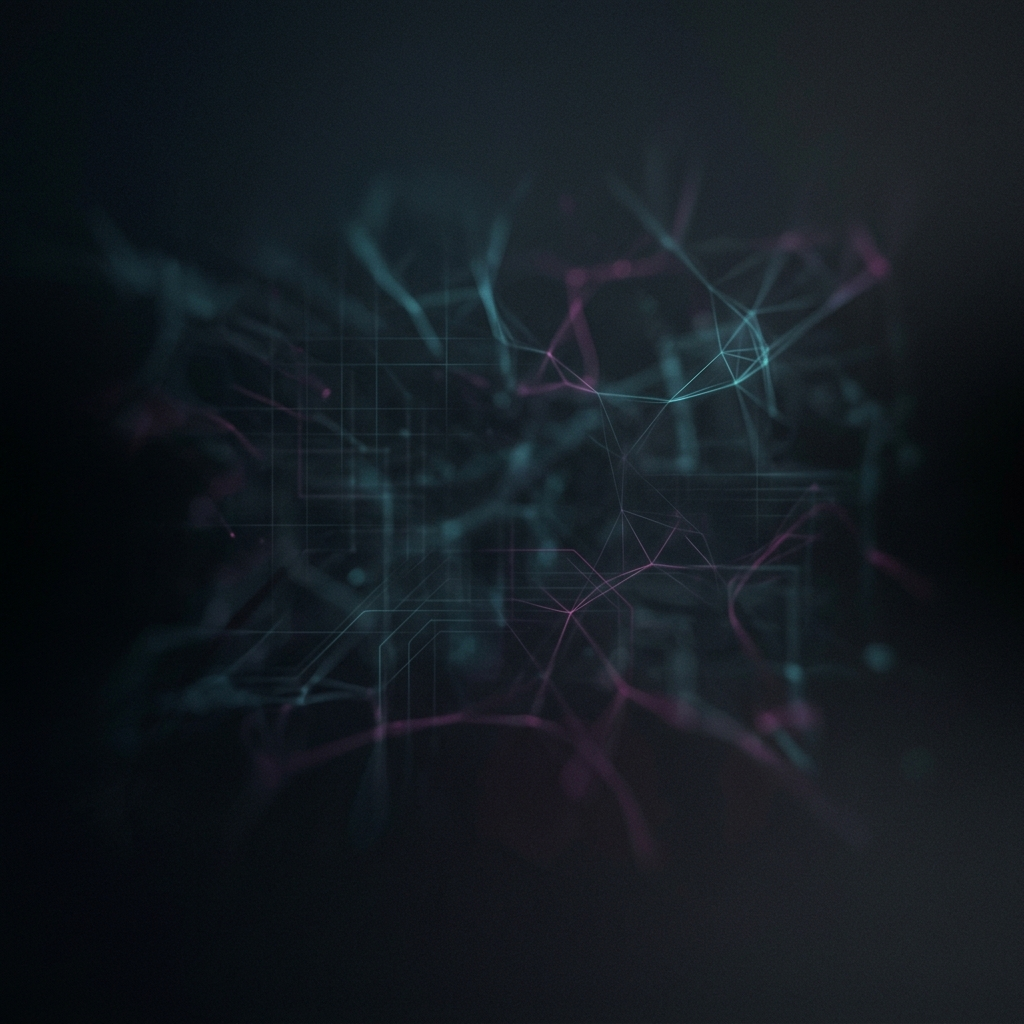
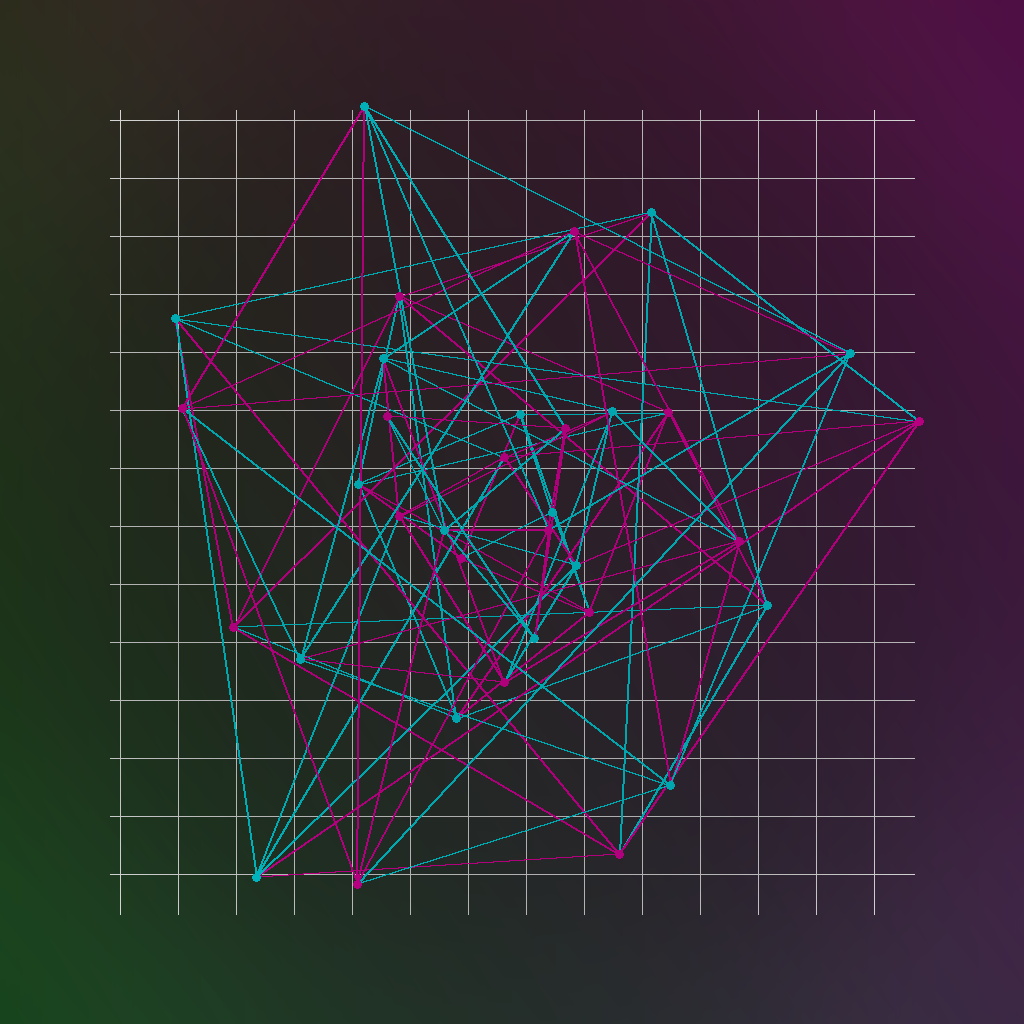
Remove remaining Unify branding references

diff --git a/assets/js/about.js b/assets/js/about.js
@@ -23,7 +23,7 @@ document.addEventListener('DOMContentLoaded', () => {
     // Custom canvas graphics nodes for simulation
     const connectionNodes = [
         { x: 200, y: 150, radius: 8, color: '#00f3ff', label: 'Local Upload' },
-        { x: 450, y: 150, radius: 12, color: '#ff00ff', label: 'Unify Core' },
+        { x: 450, y: 150, radius: 12, color: '#ff00ff', label: 'MediaFusion Core' },
         { x: 700, y: 80, radius: 8, color: '#ff0000', label: 'YouTube API' },
         { x: 700, y: 150, radius: 8, color: '#00f3ff', label: 'TikTok SDK' },
         { x: 700, y: 220, radius: 8, color: '#1877f2', label: 'Meta Graph' }

diff --git a/assets/css/style.css b/assets/css/style.css
@@ -350,7 +350,7 @@ input:checked ~ .platform-icon.meta { color: var(--meta-blue); text-shadow: 0 0 
   margin: 0 auto;
 }
 
-.center-hub {
+.center-core {
   position: absolute;
   top: 50%;
   left: 50%;
@@ -474,7 +474,7 @@ video {
     margin-top: 3rem;
   }
   .orbit-icon.yt { left: 120px; }
-  .center-hub {
+  .center-core {
     width: 80px;
     height: 80px;
     font-size: 2rem;
@@ -1145,5 +1145,4 @@ footer::before {
 .img-editor-canvas-wrap:hover {
     border-color: rgba(0, 243, 255, 0.38) !important;
 }
-
 

diff --git a/config.php b/config.php
@@ -16,7 +16,7 @@ declare(strict_types=1);
  * - Optional file: /opt/lampp/htdocs/mediafusion/.env
  * - Never prints secrets; only sets process env via putenv().
  */
-function unify_load_env_file(string $path): void {
+function mediafusion_load_env_file(string $path): void {
     if (!is_file($path) || !is_readable($path)) {
         return;
     }
@@ -41,9 +41,9 @@ function unify_load_env_file(string $path): void {
 }
 
 // Instantiate environment loader
-unify_load_env_file(__DIR__ . '/.env');
+mediafusion_load_env_file(__DIR__ . '/.env');
 
-function unify_is_https(): bool {
+function mediafusion_is_https(): bool {
     if (!empty($_SERVER['HTTP_X_FORWARDED_PROTO'])) {
         return strtolower((string)$_SERVER['HTTP_X_FORWARDED_PROTO']) === 'https';
     }
@@ -53,9 +53,9 @@ function unify_is_https(): bool {
     return (isset($_SERVER['SERVER_PORT']) && (int)$_SERVER['SERVER_PORT'] === 443);
 }
 
-function unify_detect_redirect_uri(): string {
+function mediafusion_detect_redirect_uri(): string {
     // If explicitly configured, use exact string (console must match exactly).
-    $forced = getenv('UNIFY_OAUTH_REDIRECT_URI') ?: getenv('TIKTOK_REDIRECT_URI');
+    $forced = getenv('MEDIAFUSION_OAUTH_REDIRECT_URI') ?: getenv('TIKTOK_REDIRECT_URI');
     if (is_string($forced) && $forced !== '') {
         return $forced;
     }
@@ -63,7 +63,7 @@ function unify_detect_redirect_uri(): string {
     if (!isset($_SERVER['HTTP_HOST'], $_SERVER['SCRIPT_NAME'])) {
         return 'http://localhost/mediafusion/connect.php';
     }
-    $scheme = unify_is_https() ? 'https' : 'http';
+    $scheme = mediafusion_is_https() ? 'https' : 'http';
     $host = (string)$_SERVER['HTTP_HOST'];
     $basePath = rtrim(str_replace('\\', '/', dirname((string)$_SERVER['SCRIPT_NAME'])), '/');
     $path = $basePath === '' ? '/connect.php' : $basePath . '/connect.php';
@@ -74,11 +74,11 @@ function unify_detect_redirect_uri(): string {
  * Detect absolute URL for an arbitrary script in the app (e.g. callback.php)
  * Falls back to localhost path when server variables are not available.
  */
-function unify_detect_script_uri(string $script = 'callback.php'): string {
+function mediafusion_detect_script_uri(string $script = 'callback.php'): string {
     if (!isset($_SERVER['HTTP_HOST'], $_SERVER['SCRIPT_NAME'])) {
         return 'http://localhost/mediafusion/' . ltrim($script, '/');
     }
-    $scheme = unify_is_https() ? 'https' : 'http';
+    $scheme = mediafusion_is_https() ? 'https' : 'http';
     $host = (string)$_SERVER['HTTP_HOST'];
     $basePath = rtrim(str_replace('\\', '/', dirname((string)$_SERVER['SCRIPT_NAME'])), '/');
     $path = $basePath === '' ? '/' . ltrim($script, '/') : $basePath . '/' . ltrim($script, '/');
@@ -88,19 +88,19 @@ function unify_detect_script_uri(string $script = 'callback.php'): string {
 // ---- Production overrides: when running on the live domain, prefer explicit production credentials
 $productionHost = 'fusionmedia.top';
 $hostLower = strtolower($_SERVER['HTTP_HOST'] ?? '');
-if (strpos($hostLower, $productionHost) !== false || getenv('UNIFY_FORCE_PRODUCTION') === '1') {
+if (strpos($hostLower, $productionHost) !== false || getenv('MEDIAFUSION_FORCE_PRODUCTION') === '1') {
     // Only set these if they are not already provided by environment (.env or server)
     if (strpos($hostLower, $productionHost) !== false || getenv('RAILWAY_ENVIRONMENT') !== false) {
     
     $prodBase = 'https://' . $productionHost;
-    if (getenv('UNIFY_OAUTH_REDIRECT_URI') === false) putenv('UNIFY_OAUTH_REDIRECT_URI=' . $prodBase . '/callback.php');
+    if (getenv('MEDIAFUSION_OAUTH_REDIRECT_URI') === false) putenv('MEDIAFUSION_OAUTH_REDIRECT_URI=' . $prodBase . '/callback.php');
     if (getenv('TIKTOK_REDIRECT_URI') === false) putenv('TIKTOK_REDIRECT_URI=' . $prodBase . '/callback.php');
     if (getenv('META_REDIRECT_URI') === false) putenv('META_REDIRECT_URI=' . $prodBase . '/callback_meta.php');
     
-}('DB_NAME=if0_42025520_UnifySocialHub');
+}('DB_NAME=if0_42025520_mediafusion');
 
     $prodBase = 'https://' . $productionHost;
-    if (getenv('UNIFY_OAUTH_REDIRECT_URI') === false) putenv('UNIFY_OAUTH_REDIRECT_URI=' . $prodBase . '/callback.php');
+    if (getenv('MEDIAFUSION_OAUTH_REDIRECT_URI') === false) putenv('MEDIAFUSION_OAUTH_REDIRECT_URI=' . $prodBase . '/callback.php');
     if (getenv('TIKTOK_REDIRECT_URI') === false) putenv('TIKTOK_REDIRECT_URI=' . $prodBase . '/callback.php');
     if (getenv('META_REDIRECT_URI') === false) putenv('META_REDIRECT_URI=' . $prodBase . '/callback_meta.php');
 }
@@ -112,10 +112,10 @@ define('DB_USER', getenv('DB_USER') ?: getenv('MYSQLUSER') ?: 'root');
 define('DB_PASS', getenv('DB_PASS') !== false ? getenv('DB_PASS') : (getenv('MYSQLPASSWORD') !== false ? getenv('MYSQLPASSWORD') : ''));
 define('DB_NAME', getenv('DB_NAME') ?: getenv('MYSQLDATABASE') ?: 'railway');
 // 2. Dynamic Meta / Instagram API Credentials
-define('FB_APP_ID', getenv('FB_APP_ID') ?: getenv('UNIFY_FB_APP_ID') ?: '');
-define('FB_APP_SECRET', getenv('FB_APP_SECRET') ?: getenv('UNIFY_FB_APP_SECRET') ?: '');
-define('IG_APP_ID', getenv('IG_APP_ID') ?: getenv('UNIFY_IG_APP_ID') ?: '');
-define('IG_APP_SECRET', getenv('IG_APP_SECRET') ?: getenv('UNIFY_IG_APP_SECRET') ?: '');
+define('FB_APP_ID', getenv('FB_APP_ID') ?: getenv('MEDIAFUSION_FB_APP_ID') ?: '');
+define('FB_APP_SECRET', getenv('FB_APP_SECRET') ?: getenv('MEDIAFUSION_FB_APP_SECRET') ?: '');
+define('IG_APP_ID', getenv('IG_APP_ID') ?: getenv('MEDIAFUSION_IG_APP_ID') ?: '');
+define('IG_APP_SECRET', getenv('IG_APP_SECRET') ?: getenv('MEDIAFUSION_IG_APP_SECRET') ?: '');
 
 // 3. Dynamic Google / YouTube API Credentials
 define('YOUTUBE_CLIENT_ID', getenv('YOUTUBE_CLIENT_ID') ?: '903707729051-g7dlb4g53b907mv4mpbok22tao5rmmml.apps.googleusercontent.com');
@@ -123,18 +123,18 @@ define('YOUTUBE_CLIENT_SECRET', getenv('YOUTUBE_CLIENT_SECRET') ?: 'GOCSPX-MSOep
 
 // 4. Dynamic TikTok API Sandbox Credentials
 // REDIRECT_URI is used as the OAuth callback for Google/TikTok flows. Default to the detected callback URL.
-define('REDIRECT_URI', getenv('TIKTOK_REDIRECT_URI') ?: unify_detect_script_uri('callback.php'));
+define('REDIRECT_URI', getenv('TIKTOK_REDIRECT_URI') ?: mediafusion_detect_script_uri('callback.php'));
 define('TIKTOK_CLIENT_KEY', getenv('TIKTOK_CLIENT_KEY') ?: 'sbaww7xjk9qim5act5');
 define('TIKTOK_CLIENT_SECRET', getenv('TIKTOK_CLIENT_SECRET') ?: 'IMzS614FNuWf9e9jNflA1lQLpNVVv2fj');
 
 // 5. Instagram Access Token
-define('IG_TEMP_TOKEN', getenv('UNIFY_IG_TEMP_TOKEN') ?: '');
+define('IG_TEMP_TOKEN', getenv('MEDIAFUSION_IG_TEMP_TOKEN') ?: '');
 
-// 6. Dynamic Meta API Integration Keys (Unified FB & IG)
+// 6. Dynamic Meta API Integration Keys (Meta FB & IG)
 define('META_APP_ID', getenv('META_APP_ID') ?: '950500347761069'); 
 define('META_APP_SECRET', getenv('META_APP_SECRET') ?: 'f64ae46693cbaecf191eb0a31417df5e');
 define('META_CONFIG_ID', getenv('META_CONFIG_ID') ?: '1731252727876526');
-define('META_REDIRECT_URI', getenv('META_REDIRECT_URI') ?: unify_detect_script_uri('callback_meta.php'));
+define('META_REDIRECT_URI', getenv('META_REDIRECT_URI') ?: mediafusion_detect_script_uri('callback_meta.php'));
 define('META_GRAPH_VERSION', getenv('META_GRAPH_VERSION') ?: 'v25.0');
 
 // 7. Dynamic SMTP Transactional Settings

diff --git a/includes/footer.php b/includes/footer.php
@@ -14,17 +14,17 @@ declare(strict_types=1);
             <!-- Column 1: Brand & Identity with Social Buttons -->
             <div class="col-lg-3 col-md-6 mb-4 mb-lg-0">
                 <a class="d-flex align-items-center mb-4 text-white text-decoration-none fw-bold" href="index.php" style="font-family: var(--font-heading); font-size: 1.2rem; letter-spacing: 1px;">
-                    <img src="assets/img/logo.png" alt="Unify Logo" class="brand-logo me-2" style="height: 30px;">
-                    <span style="text-shadow: 0 0 10px rgba(0, 243, 255, 0.4); font-weight: 800;">UNIFY</span>
+                    <img src="assets/img/logo.png" alt="MediaFusion Logo" class="brand-logo me-2" style="height: 30px;">
+                    <span style="text-shadow: 0 0 10px rgba(0, 243, 255, 0.4); font-weight: 800;">MediaFusion</span>
                 </a>
                 <p class="small text-secondary mb-4" style="line-height: 1.8; opacity: 0.9;">
                     Powerful workspace for creators to distribute content and scale across multi-platform networks.
                 </p>
                 <div class="d-flex gap-2" style="margin-top: 20px;">
-                    <a href="https://www.youtube.com/@UnifySocialMedia" target="_blank" class="social-glow-btn social-yt" title="YouTube"><i class="fa-brands fa-youtube"></i></a>
-                    <a href="https://www.tiktok.com/@unifysocialhub" target="_blank" class="social-glow-btn social-tt" title="TikTok"><i class="fa-brands fa-tiktok"></i></a>
+                    <a href="https://www.youtube.com/@MediaFusion" target="_blank" class="social-glow-btn social-yt" title="YouTube"><i class="fa-brands fa-youtube"></i></a>
+                    <a href="https://www.tiktok.com/@mediafusion" target="_blank" class="social-glow-btn social-tt" title="TikTok"><i class="fa-brands fa-tiktok"></i></a>
                     <a href="https://web.facebook.com/profile.php?id=61589997259788" target="_blank" class="social-glow-btn social-fb" title="Facebook"><i class="fa-brands fa-facebook-f"></i></a>
-                    <a href="https://www.instagram.com/unifysocialhub" target="_blank" class="social-glow-btn social-ig" title="Instagram"><i class="fa-brands fa-instagram"></i></a>
+                    <a href="https://www.instagram.com/mediafusion" target="_blank" class="social-glow-btn social-ig" title="Instagram"><i class="fa-brands fa-instagram"></i></a>
                 </div>
             </div>
 
@@ -91,7 +91,7 @@ declare(strict_types=1);
         <div class="row">
             <div class="col-12">
                 <p class="small text-secondary mb-0 text-center" style="font-size: 0.8rem; letter-spacing: 0.5px;">
-                    &copy; <?= date('Y') ?> Unify Studios. All Rights Reserved.
+                    &copy; <?= date('Y') ?> MediaFusion. All Rights Reserved.
                 </p>
             </div>
         </div>

diff --git a/backend/engine/distributor.py b/backend/engine/distributor.py
@@ -1,6 +1,6 @@
 #!/usr/bin/env python3
 """
-Unify Studios Distribution Engine
+MediaFusion Distribution Engine
 --------------------------------
 backend/engine/distributor.py
 
@@ -21,7 +21,7 @@ Dependencies (install via pip):
     - requests
 
 Environment variables:
-    - UNIFY_DB_HOST, UNIFY_DB_USER, UNIFY_DB_PASS, UNIFY_DB_NAME
+    - MEDIAFUSION_DB_HOST, MEDIAFUSION_DB_USER, MEDIAFUSION_DB_PASS, MEDIAFUSION_DB_NAME
 """
 
 from __future__ import annotations
@@ -70,11 +70,11 @@ class UploadJob:
 
 
 def db_connect():
-    host = os.getenv("UNIFY_DB_HOST") or os.getenv("DB_HOST") or os.getenv("MYSQLHOST") or "localhost"
-    port = os.getenv("UNIFY_DB_PORT") or os.getenv("DB_PORT") or os.getenv("MYSQLPORT") or "3306"
-    user = os.getenv("UNIFY_DB_USER") or os.getenv("DB_USER") or os.getenv("MYSQLUSER") or "root"
-    password = os.getenv("UNIFY_DB_PASS") or os.getenv("DB_PASS") or os.getenv("MYSQLPASSWORD") or ""
-    database = os.getenv("UNIFY_DB_NAME") or os.getenv("DB_NAME") or os.getenv("MYSQLDATABASE") or "unify_social_hub"
+    host = os.getenv("MEDIAFUSION_DB_HOST") or os.getenv("DB_HOST") or os.getenv("MYSQLHOST") or "localhost"
+    port = os.getenv("MEDIAFUSION_DB_PORT") or os.getenv("DB_PORT") or os.getenv("MYSQLPORT") or "3306"
+    user = os.getenv("MEDIAFUSION_DB_USER") or os.getenv("DB_USER") or os.getenv("MYSQLUSER") or "root"
+    password = os.getenv("MEDIAFUSION_DB_PASS") or os.getenv("DB_PASS") or os.getenv("MYSQLPASSWORD") or ""
+    database = os.getenv("MEDIAFUSION_DB_NAME") or os.getenv("DB_NAME") or os.getenv("MYSQLDATABASE") or "mediafusion"
     
     return mysql.connector.connect(
         host=host,

diff --git a/index.php b/index.php
@@ -21,7 +21,7 @@ $extraHead  = '
                             <span class="text-gradient-cyan">Light Speed.</span>
                         </h1>
                         <p class="lead text-secondary mb-5 gsap-fade-in" data-scroll data-scroll-speed="1.2">
-                            A high-performance engine to broadcast your videos across YouTube, TikTok, and Meta simultaneously. Unify your social presence with a single click.
+                            A high-performance engine to broadcast your videos across YouTube, TikTok, and Meta simultaneously. Fuse your media presence with a single click.
                         </p>
                         <div class="d-flex gap-4 gsap-fade-in" data-scroll data-scroll-speed="1.4">
                             <a href="connect.php" class="btn-magnetic" style="border-color: var(--neon-magenta); color: #fff;">
@@ -33,7 +33,7 @@ $extraHead  = '
                     <div class="col-lg-6 position-relative z-1 gsap-fade-in">
                         <!-- Floating Orbit GSAP Animation -->
                         <div class="orbit-container" data-scroll data-scroll-speed="-1">
-                            <div class="center-hub">
+                            <div class="center-core">
                                 <i class="fa-solid fa-satellite-dish text-gradient-cyan"></i>
                             </div>
                             <div class="orbit-ring">

diff --git a/backend/python/uploader.py b/backend/python/uploader.py
@@ -13,11 +13,11 @@ logging.basicConfig(level=logging.INFO, format='%(asctime)s - %(levelname)s - %(
 
 def get_db_connection():
     try:
-        host = os.getenv("UNIFY_DB_HOST") or os.getenv("DB_HOST") or os.getenv("MYSQLHOST") or "127.0.0.1"
-        port = os.getenv("UNIFY_DB_PORT") or os.getenv("DB_PORT") or os.getenv("MYSQLPORT") or "3306"
-        user = os.getenv("UNIFY_DB_USER") or os.getenv("DB_USER") or os.getenv("MYSQLUSER") or "root"
-        password = os.getenv("UNIFY_DB_PASS") or os.getenv("DB_PASS") or os.getenv("MYSQLPASSWORD") or ""
-        database = os.getenv("UNIFY_DB_NAME") or os.getenv("DB_NAME") or os.getenv("MYSQLDATABASE") or "unify_social_hub"
+        host = os.getenv("MEDIAFUSION_DB_HOST") or os.getenv("DB_HOST") or os.getenv("MYSQLHOST") or "127.0.0.1"
+        port = os.getenv("MEDIAFUSION_DB_PORT") or os.getenv("DB_PORT") or os.getenv("MYSQLPORT") or "3306"
+        user = os.getenv("MEDIAFUSION_DB_USER") or os.getenv("DB_USER") or os.getenv("MYSQLUSER") or "root"
+        password = os.getenv("MEDIAFUSION_DB_PASS") or os.getenv("DB_PASS") or os.getenv("MYSQLPASSWORD") or ""
+        database = os.getenv("MEDIAFUSION_DB_NAME") or os.getenv("DB_NAME") or os.getenv("MYSQLDATABASE") or "mediafusion"
         
         return mysql.connector.connect(
             host=host,

diff --git a/auth.php b/auth.php
@@ -22,7 +22,7 @@ if (isset($_SESSION['user_id'])) {
     <nav class="navbar navbar-expand-lg navbar-glass">
         <div class="container-fluid">
             <a class="navbar-brand" href="index.php">
-                <img src="assets/img/logo.png" alt="Unify Logo" class="brand-logo"> Unify
+            <img src="assets/img/logo.png" alt="MediaFusion Logo" class="brand-logo"> MediaFusion
             </a>
             <div class="collapse navbar-collapse justify-content-end">
                 <ul class="navbar-nav align-items-center gap-3">
@@ -35,7 +35,7 @@ if (isset($_SESSION['user_id'])) {
     <div class="auth-container">
         <div class="glass-card auth-card">
             <div class="text-center mb-4">
-                <img src="assets/img/logo.png" alt="Unify Logo" style="height: 60px; filter: drop-shadow(0 0 10px var(--neon-cyan));" class="mb-3">
+                <img src="assets/img/logo.png" alt="MediaFusion Logo" style="height: 60px; filter: drop-shadow(0 0 10px var(--neon-cyan));" class="mb-3">
                 <h2 id="authTitle" class="text-gradient-cyan">System Login</h2>
                 <p id="authSubtitle" class="text-secondary">Authenticate to access the distribution engine.</p>
             </div>

diff --git a/request_password_reset.php b/request_password_reset.php
@@ -160,7 +160,7 @@ class CyberpunkSMTPClient {
             "From: \"" . $fromName . "\" <" . $this->username . ">",
             "Subject: =?UTF-8?B?" . base64_encode($subject) . "?=",
             "Date: " . date('r'),
-            "X-Mailer: Unify OO Sockets Client v1.0"
+            "X-Mailer: MediaFusion SMTP Client v1.0"
         ];
 
         $rawMessage = implode("\r\n", $headers) . "\r\n\r\n" . $body . "\r\n.\r\n";
@@ -247,7 +247,7 @@ if ($_SERVER['REQUEST_METHOD'] === 'POST') {
             
             // Only try if default credentials changed
             if ($smtpUser !== 'support@example.com' && $smtpUser !== 'support@cpanel_domain.com') {
-                $mailSent = $client->send($email, $subject, $emailBody, "Unify Authentication Vault");
+                $mailSent = $client->send($email, $subject, $emailBody, "MediaFusion Authentication Vault");
                 $smtpLogs = $client->getLogs();
             } else {
                 $client->log("cPanel SMTP mail credentials are at placeholders. Bypassing socket send...");

diff --git a/sync_social_profile.php b/sync_social_profile.php
@@ -439,7 +439,7 @@ $hasCustomAvatar = ($avatarPath !== '' && is_file(__DIR__ . '/' . $avatarPath));
                 <div class="mt-3">
                     <label class="form-label text-secondary small text-uppercase mb-2" style="font-size: 0.62rem; letter-spacing: 0.5px;">Quick Demo Setup</label>
                     <div class="d-flex flex-column gap-2">
-                        <div class="sync-demo-pill" onclick="loadPreset('https://api.dicebear.com/7.x/bottts/png?seed=unify_operator_one&backgroundColor=110e1f')">
+                        <div class="sync-demo-pill" onclick="loadPreset('https://api.dicebear.com/7.x/bottts/png?seed=mediafusion_operator_one&backgroundColor=110e1f')">
                             <i class="fa-brands fa-google text-danger me-2"></i><strong>Use a Sample Google Profile Picture</strong>
                         </div>
                         <div class="sync-demo-pill" onclick="loadPreset('https://api.dicebear.com/7.x/bottts/png?seed=cyber_operator_two&backgroundColor=110e1f')">

diff --git a/profile.php b/profile.php
@@ -193,7 +193,7 @@ include 'header.php';
             <!-- Platform synchronizer cURL download form -->
             <div class="col-md-6 ps-md-4">
                 <h5 class="text-white mb-2" style="font-size: 0.9rem;"><i class="fa-solid fa-rotate me-2 text-info"></i>Social Profile Copy</h5>
-                <p class="text-secondary small mb-3">Copy your platform profile avatar instantly to Unify via cURL.</p>
+                <p class="text-secondary small mb-3">Copy your platform profile avatar instantly to MediaFusion via cURL.</p>
                 <form action="sync_social_profile.php" method="POST">
                     <input type="hidden" name="action" value="sync_social">
                     <div class="mb-3">

diff --git a/header.php b/header.php
@@ -51,7 +51,7 @@ if (!isset($activePage)) $activePage = '';
 <nav class="navbar navbar-expand-lg navbar-glass">
     <div class="container-fluid">
         <a class="navbar-brand" href="index.php">
-            <img src="assets/img/logo.png" alt="Unify Logo" class="brand-logo"> Unify
+            <img src="assets/img/logo.png" alt="MediaFusion Logo" class="brand-logo"> MediaFusion
         </a>
         <button class="navbar-toggler" type="button" data-bs-toggle="collapse" data-bs-target="#navbarNav"
                 aria-controls="navbarNav" aria-expanded="false" aria-label="Toggle navigation">
@@ -115,4 +115,3 @@ if (!isset($activePage)) $activePage = '';
         </div>
     </div>
 </nav>
-
